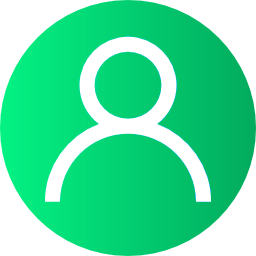
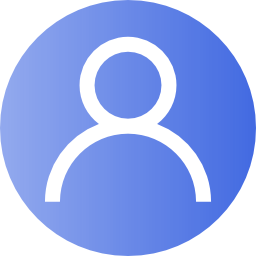
RE-branding

diff --git a/public/assets/css/main.css b/public/assets/css/main.css
@@ -3,9 +3,9 @@
 
 :root {
 	--body-color: #696969;
-	--primary-color: #02a95c;
+	--primary-color: #4169E1;
 	--secondary-color: #001d23;
-	--primary-soft-color: #edf9f3;
+	--primary-soft-color: #98b2ff;
 	--white: #fff;
 	--border-color: rgb(0 29 35 / 10%);
 	--primary-font: "Roboto", sans-serif;
@@ -444,6 +444,16 @@ a:hover {
     padding-right: 24px;
     padding-top: 16px;
     padding-bottom: 16px;
+	background-color: var(--primary-color);
+	color: white;
+}
+
+textarea {
+	background-color: white !important;
+}
+
+.btn-chubby:hover {
+	color: black;
 }
 
 .no-decoration {
@@ -541,6 +551,10 @@ a:hover {
     flex-direction: column;
     justify-content: center;
     align-items: center;
+}
+
+.bs-red-bg {
+	background-color: var(--bs-red);
 }
 
 .primary-bg {
@@ -1358,12 +1372,16 @@ a:hover {
 }
 
 /*======= Hero Section One =======*/
+#logo-img {
+	max-height: 100px;
+}
+
 .hero-area-one .hero-text {
 	padding-top: 30px;
     padding-bottom: 125px;
 	text-align: center;
-	background-color: #fde2b7;
-	background-image: url(../img/hero/hero-one-bg.jpg);
+	background-color: #ff2e2e;
+	background-image: url(../img/hero/hero-one-bg4.png);
 	background-size: cover;
 	background-position: center;
 	position: relative;
@@ -1377,7 +1395,7 @@ a:hover {
 	top: 33%;
 	width: 25px;
 	height: 25px;
-	border: 5px solid #24ff00;
+	border: 5px solid var(--white);
 	background-color: transparent;
 	border-radius: 50%;
 	z-index: -1;
@@ -1389,7 +1407,7 @@ a:hover {
 	top: 26%;
 	width: 25px;
 	height: 25px;
-	border: 5px solid #ff8a00;
+	border: 5px solid var(--primary-color);
 	background-color: transparent;
 	border-radius: 50%;
 	z-index: -1;
@@ -1428,14 +1446,14 @@ a:hover {
 }
 
 .hero-area-one .hero-text .main-btn {
-	background-color: transparent;
-	border: 2px solid #e3cda8;
-	color: var(--secondary-color);
+	background-color: var(--primary-color);
+	border: 2px solid var(--primary-color);
+	color: var(--white);
 }
 
 .hero-area-one .hero-text .main-btn:hover {
 	color: var(--white);
-	background-color: var(--secondary-color);
+	background-color: var(--primary-color);
 }
 
 .hero-area-one .hero-images {
@@ -1632,6 +1650,10 @@ a:hover {
 
 .rounder {
 	border-radius: 75px !important;
+}
+
+.roundest {
+	border-radius: 50% !important;
 }
 
 .bolder {
@@ -2445,8 +2467,8 @@ a:hover {
 	max-width: 750px;
     
     text-align: center;
-    color: #02a95c;
-    border: 2px solid #02a95c;
+    color: #4169E1;
+    border: 2px solid #4169E1;
     display: inline;
 }
 
@@ -2457,8 +2479,8 @@ a:hover {
 
 .input-group-text {
 	height: 100%;
-    background-color: #02a95c;
-    border: 2px solid #02a95c;
+    background-color: #4169E1;
+    border: 2px solid #4169E1;
 	border-top-right-radius: 0px;
     border-bottom-right-radius: 0px;
 
@@ -2557,7 +2579,7 @@ textarea {
 
 .project-summery .project-funding-info .info-box .info-title {
 	font-size: 16px;
-	color: var(--body-color);
+	color: var(--white);
 	font-weight: 400;
 	margin-top: 12px;
 }
@@ -2730,7 +2752,7 @@ textarea {
 
 .project-details-tab .rewards-box {
 	padding: 40px;
-	background-color: var(--primary-soft-color);
+	background-color: var(--white);
 }
 
 .project-details-tab .rewards-box .title {
@@ -2860,8 +2882,8 @@ textarea {
 	content: "";
 	position: absolute;
 	top: 0;
-	left: -90px;
-	right: -90px;
+	left: -30px;
+	right: -30px;
 	z-index: -1;
 	height: 100%;
 	background-color: var(--primary-color);
@@ -5277,8 +5299,8 @@ textarea {
 	height: 85px;
 	width: 85px;
 	border-radius: 50%;
-	-webkit-box-shadow: 0px 16px 30px 0px rgba(2, 169, 92, 0.3);
-	box-shadow: 0px 16px 30px 0px rgba(2, 169, 92, 0.3);
+	-webkit-box-shadow: 0px 16px 30px 0px rgba(1,1,1 0.3);
+	box-shadow: 0px 16px 30px 0px rgba(1,1,1, 0.3);
 	-webkit-box-pack: center;
 	-ms-flex-pack: center;
 	justify-content: center;
@@ -5292,7 +5314,6 @@ textarea {
 }
 
 .contact-info-boxes .info-box .info-content {
-	background-color: var(--primary-soft-color);
 	padding: 70px 30px 25px;
 	margin-top: -43px;
 	height: 225px;
@@ -5358,6 +5379,11 @@ textarea {
 	color: white !important;
 }
 
+.text-red {
+	color: var(--bs-red) !important;
+}
+
+
 input[type='file'] {
 	height: auto !important;
 }
@@ -5417,25 +5443,25 @@ input[type='file'] {
 }
 
 .left-leaf {
-    background-color: #02a95c;
+    background-color: #4169E1;
     border-top-right-radius: 50px;
     border-bottom-left-radius: 50px;
 }
 
 .right-leaf {
-    background-color: #02a95c;
+    background-color: #4169E1;
     border-top-left-radius: 50px;
     border-bottom-right-radius: 50px;
 }
 
 .double-right-leaf {
-    background-color: #02a95c;
+    background-color: #4169E1;
     border-top-right-radius: 50px;
     border-bottom-right-radius: 50px;
 }
 
 .double-left-leaf {
-    background-color: #02a95c;
+    background-color: #4169E1;
     border-top-left-radius: 50px;
     border-bottom-left-radius: 50px;
 }

diff --git a/public/assets/css/organization.css b/public/assets/css/organization.css
@@ -16,25 +16,25 @@ input[type='file'] {
 }
 
 .left-leaf {
-    background-color: #02a95c;
+    background-color: #4169E1;
     border-top-right-radius: 50px;
     border-bottom-left-radius: 50px;
 }
 
 .right-leaf {
-    background-color: #02a95c;
+    background-color: #4169E1;
     border-top-left-radius: 50px;
     border-bottom-right-radius: 50px;
 }
 
 .double-right-leaf {
-    background-color: #02a95c;
+    background-color: #4169E1;
     border-top-right-radius: 50px;
     border-bottom-right-radius: 50px;
 }
 
 .double-left-leaf {
-    background-color: #02a95c;
+    background-color: #4169E1;
     border-top-left-radius: 50px;
     border-bottom-left-radius: 50px;
 }

diff --git a/public/assets/css/profile.css b/public/assets/css/profile.css
@@ -1,6 +1,6 @@
 body {
-    background: #02a95c;
-    background: linear-gradient(to right, #02a95c, #ffffff);
+    background: #4169E1;
+    background: linear-gradient(to right, #4169E1, #ffffff);
 }
 .emp-profile{
     padding: 3%;
@@ -125,5 +125,5 @@ p {
 }
 
 .nav-link {
-    color: #02a95c !important;
+    color: #4169E1 !important;
 }

diff --git a/public/assets/css/crud.css b/public/assets/css/crud.css
@@ -36,11 +36,11 @@
   }
   
   input:checked + .slider {
-    background-color: #02a95c;
+    background-color: #4169E1;
   }
   
   input:focus + .slider {
-    box-shadow: 0 0 1px #02a95c;
+    box-shadow: 0 0 1px #4169E1;
   }
   
   input:checked + .slider:before {

diff --git a/public/assets/css/brandForm.css b/public/assets/css/brandForm.css
@@ -13,7 +13,7 @@ body {
   font-size: 0.9rem;
   letter-spacing: 0.05rem;
   padding: 0.75rem 1rem;
-  background-color: #02a95c;
+  background-color: #4169E1;
 }
 
 .btn-google {
